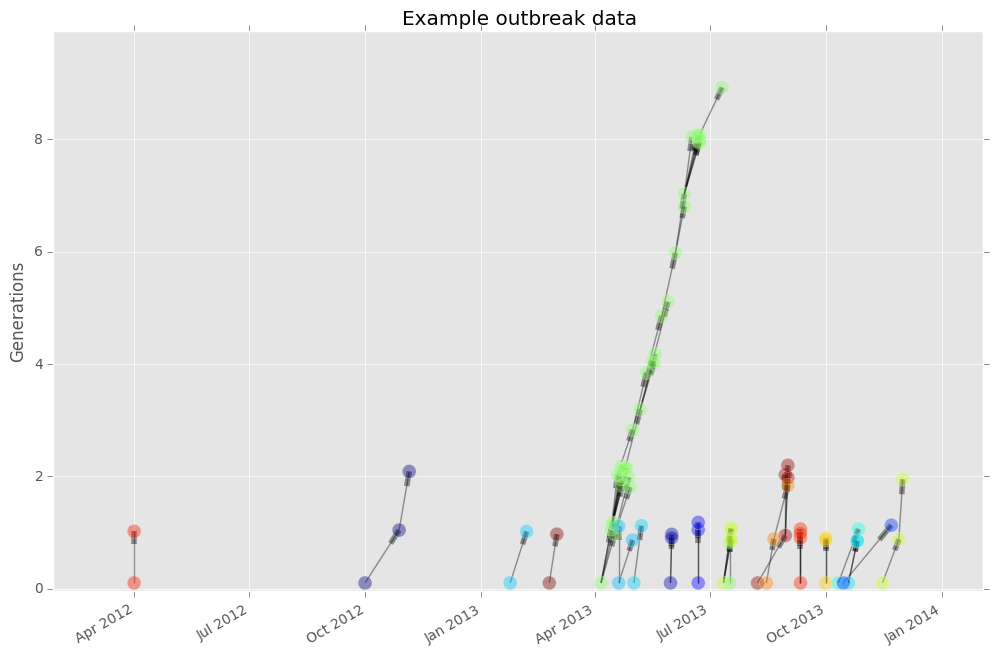
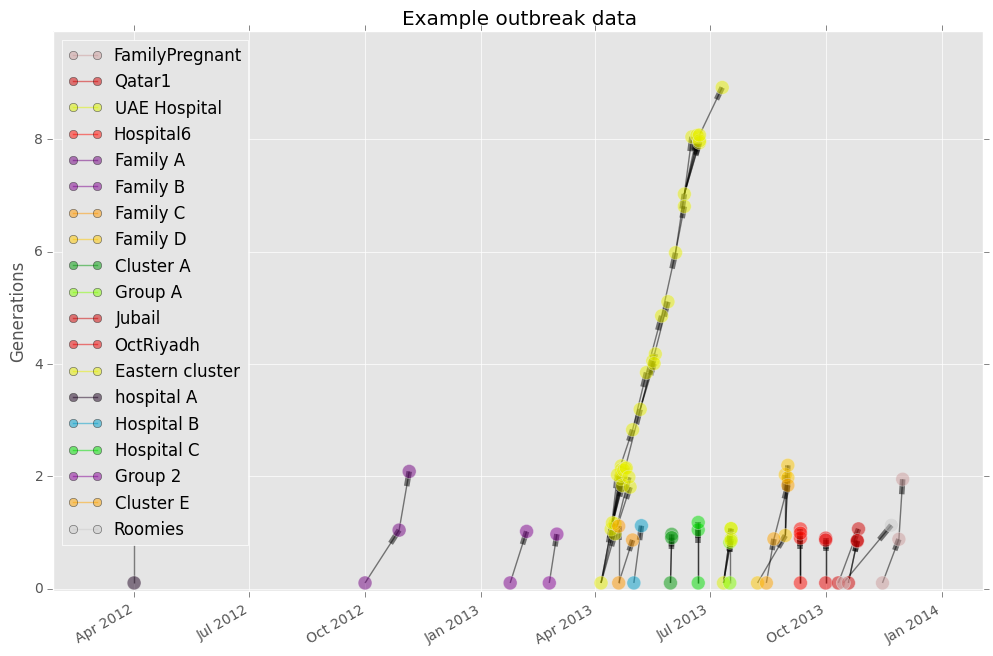
figures automatically generated from examples.py

diff --git a/epipy/examples.py b/epipy/examples.py
@@ -10,6 +10,7 @@ import pandas as pd
 import matplotlib.pyplot as plt
 import numpy as np
 import epipy
+import os
 
 try:
     from mpltools import style, layout
@@ -18,18 +19,36 @@ try:
 except:
     pass
 
+dir = os.path.dirname(__file__)
+
+#################################
+# GENERATE AN EXAMPLE LINE LIST #
+#################################
+
+example_df = epipy.generate_example_data(cluster_size=6, outbreak_len=90, clusters=5,
+                                         gen_time=5, attribute='health')
+
+test_clusters = epipy.cluster_builder(example_df, 'Cluster', 'ID', 'Date', 'Cluster', 5, 1)
+test_G = epipy.build_graph(test_clusters)
+fig, ax = epipy.case_tree_plot(test_G,  node_size=100)
+ax.set_title('Example outbreak data')
+ax.set_ylabel('Generations')
+ax.grid(True)
+fig.savefig(os.path.join(dir, '../figs/test_casetree.png'), bbox_inches='tight')
+
+
 #####################
 # TEST DATA EXAMPLE #
 #####################
 
 # load in example data
 try:
-    test_df = pd.read_pickle('../data/test_cluster.pkl')
+    test_df = pd.read_pickle(os.path.join(dir, '../data/test_cluster.pkl'))
 except:
     from data_generator import generate_example_data
     test_df = generate_example_data(cluster_size=5, outbreak_len=100, clusters=10, generation_time=5)
-    test_df.to_pickle('../data/test_cluster.pkl')
-  
+    test_df.to_pickle(os.path.join(dir, '../data/test_cluster.pkl'))
+
 test_clusters = epipy.cluster_builder(test_df, 'Cluster', 'ID', 'Date', 'Cluster', 5, 1)
 
 # Case tree plot
@@ -38,25 +57,25 @@ fig, ax = epipy.case_tree_plot(test_G,  node_size=100)
 ax.set_title('Example outbreak data')
 ax.set_ylabel('Generations')
 ax.grid(True)
-fig.savefig('../figs/test_casetree.png', bbox_inches='tight')
+#fig.savefig(os.path.join(dir, '../figs/test_casetree.png'), bbox_inches='tight')
 
 # Checkerboard plot
 fig, ax = epipy.checkerboard_plot(test_df, 'ID', 'Cluster', 'Date')
 ax.set_title("Test data")
-fig.savefig('../figs/test_checkerboard.png')
+fig.savefig(os.path.join(dir, '../figs/test_checkerboard.png'), bbox_inches='tight')
 
 
 #########################
 # MERS-CoV DATA EXAMPLE #
 #########################
 
-mers_df = pd.read_csv('../data/mers_line_list.csv')
+mers_df = pd.read_csv(os.path.join(dir, '../data/mers_line_list.csv'))
 
 # Data cleaning
 mers_df['Case #'] = mers_df['Case #'].replace(np.nan, 'single')
 mers_df['onset_date'] = mers_df['Approx onset date'].map(epipy.date_convert)
 mers_df['report_date'] = mers_df['Approx reporting date'].map(epipy.date_convert)
-mers_df['dates'] = mers_df['onset_date'].combine_first(mers_df['report_date']) 
+mers_df['dates'] = mers_df['onset_date'].combine_first(mers_df['report_date'])
 
 # Prepares case clusters for case tree plot
 mers_clusters = epipy.cluster_builder(mers_df, 'Cluster ID', 'Case #',
@@ -64,42 +83,41 @@ mers_clusters = epipy.cluster_builder(mers_df, 'Cluster ID', 'Case #',
 
 # Case tree plot
 mers_G = epipy.build_graph(mers_clusters)
-fig, ax = epipy.case_tree_plot(mers_G,  node_size=100)
+fig, ax = epipy.case_tree_plot(mers_G, node_size=100, loc='upper left')
 ax.set_title('Example outbreak data')
-ax.set_ylabel('Generations')
 ax.grid(True)
-fig.savefig('../figs/mers_casetree.png', bbox_inches='tight')
+fig.savefig(os.path.join(dir, '../figs/mers_casetree.png'), bbox_inches='tight')
 
 # Checkerboard plot
 fig, ax = epipy.checkerboard_plot(mers_df, 'Case #', 'Cluster ID', 'dates')
 ax.set_title("MERS-CoV clusters")
-fig.savefig('../figs/mers_checkerboard.png')
+fig.savefig(os.path.join(dir, '../figs/mers_checkerboard.png'), bbox_inches='tight')
 
 #################
 ### EPICURVES ###
 #################
 
-epi = pd.read_csv("../data/mers_line_list.csv", parse_dates=True)
+epi = pd.read_csv(os.path.join(dir, "../data/mers_line_list.csv"), parse_dates=True)
 
 # Data cleaning again
 epi['onset_date'] = epi['Approx onset date'].map(lambda x: epipy.date_convert(x, '%Y-%m-%d'))
 epi['report_date'] = epi['Approx reporting date'].map(lambda x: epipy.date_convert(x, '%Y-%m-%d'))
-epi['dates'] = epi['onset_date'].combine_first(epi['report_date']) 
+epi['dates'] = epi['onset_date'].combine_first(epi['report_date'])
 
 # Daily epicurve
 plt.figure()
 epipy.epicurve_plot(epi, date_col='dates', freq='day')
 plt.title('Approximate onset or report date');
-plt.savefig('../figs/day_epicurve.png')
+plt.savefig(os.path.join(dir, '../figs/day_epicurve.png'))
 
 # Yearly epicurve
 plt.figure()
 epipy.epicurve_plot(epi, 'dates', freq='y')
 plt.title('Approximate onset or report date')
-plt.savefig('../figs/year_epicurve.png');
+plt.savefig(os.path.join(dir, '../figs/year_epicurve.png'))
 
 # Monthly epicurve
 plt.figure()
 epipy.epicurve_plot(epi, 'dates', freq='month')
 plt.title('Approximate onset or report date')
-plt.savefig('../figs/month_epicurve.png')
+plt.savefig(os.path.join(dir, '../figs/month_epicurve.png'))

diff --git a/epipy/case_tree.py b/epipy/case_tree.py
@@ -49,38 +49,39 @@ def build_graph(df, case_id='case_id', color='color', index='index_node',
     return G
 
 
-def case_tree_plot(G, node_size=100):
+def case_tree_plot(G, node_size=100, loc='best', legend=True):
     """
     Plot casetree
     G = networkx object
     node_size = on (display node) or off (display edge only). Default is on.
+    loc = legend location. See matplotlib args.
     """
     fig, ax = plt.subplots(figsize=(12, 8))
     ax.xaxis_date()
     ax.set_aspect('auto')
     axprop =  ax.axis()
+    ax.set_ylabel('Generations')
+    fig.autofmt_xdate()
 
     coords = _layout(G)
     plt.ylim(ymin=-.05, ymax=max([val[1] for val in coords.itervalues()])+1)
 
 
     colormap, color_floats = _colors(G, 'color')
-    print colormap
 
-    x_val = G.nodes()[0]
-    lines = []
+    if legend == True:
+        x_val = G.nodes()[0]
+        lines = []
 
-    for key, value in colormap.iteritems():
-        plt.scatter(G.node[x_val]['pltdate'], value[0], color=value, alpha=0)
-        line = plt.Line2D(range(1), range(1), color=value, marker='o', markersize=10, alpha=.6, label=key)
-        lines.append(line)
+        for key, value in colormap.iteritems():
+            plt.scatter(G.node[x_val]['pltdate'], value[0], color=value, alpha=0)
+            line = plt.Line2D(range(1), range(1), color=value, marker='o', markersize=6, alpha=.5, label=key)
+            lines.append(line)
 
-    ax.legend(lines, [k for k in colormap.iterkeys()])
+        ax.legend(lines, [k for k in colormap.iterkeys()], loc=loc)
 
     nx.draw_networkx(G, ax=ax, with_labels=False, pos=coords, node_color=color_floats,
-                     node_size=node_size, alpha=.6)
-
-    fig.autofmt_xdate()
+                     node_size=node_size, alpha=.5)
 
     return fig, ax
 
@@ -98,7 +99,7 @@ def _colors(G, color):
         categories.append(G.node[node][color])
 
     # create color map of attributes and colors
-    colors = cm.Accent(np.linspace(0, 1, len(categories)))
+    colors = cm.spectral(np.linspace(0, 1, len(categories)))
     colordict = dict(zip(categories, colors))
 
     color_floats = []
@@ -156,11 +157,3 @@ def _layout(G):
         positions.append([xcord, generation])
 
     return dict(zip(G, np.array(positions)))
-
-import epipy
-import pandas as pd
-test_df = pd.read_pickle('../data/test_cluster.pkl')
-test_clusters = epipy.cluster_builder(test_df, 'Cluster', 'ID', 'Date', 'Cluster', 5, 1)
-test_G = epipy.build_graph(test_clusters)
-fig, ax = case_tree_plot(test_G, node_size=100)
-fig.show()

diff --git a/epipy/data_generator.py b/epipy/data_generator.py
@@ -8,25 +8,48 @@ import string
 def _date_choice(ix_date, generation_time):
     date_rng = pd.date_range(ix_date, periods=generation_time*2, freq='D')
     date = np.random.choice(date_rng, 1)
-    
+
     return date
 
-def generate_example_data(cluster_size, outbreak_len, clusters, generation_time):
-    line_list = []    
+def generate_example_data(cluster_size, outbreak_len, clusters, gen_time, attribute='sex'):
+    """
+    Generates example outbreak data
+
+    PARAMETERS
+    ------------------------------
+    cluster_size = mean number of cases in cluster. Build in sd of 2
+    outbreak_len = duration of outbreak in days
+    clusters = number of clusters to begenerated
+    gen_time = number of days between each generation in a cluster
+    attribute = case attribute. Options are 'sex' (returns M, F) and
+                'health' (returns asymptomatic, alive, critical, dead)
+
+    RETURNS
+    ------------------------------
+    pandas dataframe with columns ['ID', 'Date', 'Cluster', 'Sex']
+
+    """
+    line_list = []
     used = []
     for i in range(clusters):
-        cluster_name = np.random.choice([i for i in string.letters if i not in used])[0]
+        cluster_letter = np.random.choice([i for i in string.letters if i not in used])[0]
+        cluster_name = 'Cluster' + cluster_letter.upper()
         used.append(cluster_name)
-        
+
         ix_rng = pd.date_range('1/1/2014', periods=outbreak_len, freq='D')
         ix_date = np.random.choice(ix_rng, size=1)
-        
+
         rng = int(np.random.normal(cluster_size, 2, 1))
         for n in range(rng):
-            date = _date_choice(ix_date[0], generation_time*2)[0]            
-            sex =  np.random.choice(['M', 'F'], size=1)[0]
-            line_list.append((len(line_list), date, cluster_name, sex))
+            date = _date_choice(ix_date[0], gen_time*2)[0]
 
-    return pd.DataFrame(line_list, columns=['ID', 'Date', 'Cluster', 'Sex'])
+            if attribute.lower() == 'sex':
+                attr =  np.random.choice(['M', 'F'], size=1)[0]
+            elif attribute.lower() == 'health':
+                attr = np.random.choice(['asymptomatic', 'alive', 'critical', 'dead'], size=1)[0]
+
+            line_list.append((len(line_list), date, cluster_name, attr))
+
+    return pd.DataFrame(line_list, columns=['ID', 'Date', 'Cluster', attribute])
 
 

diff --git a/epipy/checkerboard.py b/epipy/checkerboard.py
@@ -24,51 +24,49 @@ def checkerboard_plot(df, case_id, cluster_id, date_col):
     returns matplotlib figure and axis objects
     '''
     clusters = epipy.group_clusters(df, cluster_id, date_col)
-    
+
     fig, ax = plt.subplots(figsize=(12, 10))
     ax.xaxis_date()
     ax.set_aspect('auto')
     axprop = ax.axis()
-    
+    fig.autofmt_xdate()
+
     grpnames = [key for key, group in clusters if len(group) > 1]
     plt.ylim(1, len(grpnames))
     plt.yticks(np.arange(len(grpnames)), grpnames)
-    
+
     xtog = timedelta(((10*axprop[1]-axprop[0])/axprop[1]), 0, 0)
     counter = 0
     cols = cycle([color for i, color in enumerate(plt.rcParams['axes.color_cycle'])])
-    
+
     for key, group in clusters:
         if len(group) > 1:
             color = next(cols)
             casenums = cycle([int(num) for num in group.index])
-            
+
             positions = []
             for casedate in group[date_col].order():
                 x1 = casedate
                 x2 = casedate + xtog
                 positions.append(x2)
-                
+
                 y1 = np.array([counter, counter])
                 y2 = y1 + 1
-                
+
                 plt.fill_between([x1, x2], y1, y2, color=color, alpha=.3)
                 ypos = y1[0] + .5
-                
+
                 try:
                     if x1 <= positions[-2]:
                         ypos = ypos + np.random.uniform(-.4, .4, 1)
                 except:
                     pass
-                    
+
                 textspot = x1 + timedelta((x2 - x1).days/2.0, 0, 0)
                 plt.text(textspot, ypos, next(casenums),
-			    horizontalalignment='center', 
-			    verticalalignment='center', fontsize=9)    
-                
+			    horizontalalignment='center',
+			    verticalalignment='center', fontsize=9)
+
             counter += 1
-            
-    fig.autofmt_xdate()
-    fig.tight_layout()
-    
+
     return fig, ax

diff --git a/epipy/basics.py b/epipy/basics.py
@@ -20,7 +20,7 @@ def date_convert(date, str_format='%Y-%m-%d'):
         y = datetime.strptime(date, str_format)
     except:
         y = np.nan
-        
+
     return y
 
 
@@ -54,12 +54,12 @@ def cluster_builder(df, cluster_id, case_id, date_col, color_col, gen_mean, gen_
     gen_mean = generation time mean
     gen_sd = generation time standard deviation
 
-    returns pandas groupby dataframe 
+    returns pandas groupby dataframe
     '''
     clusters = group_clusters(df, cluster_id, date_col)
-    
+
     gen_max = timedelta((gen_mean + gen_sd), 0)
-    
+
     cluster_obj = []
     for key, group in clusters:
         if len(group) > 1:
@@ -69,7 +69,7 @@ def cluster_builder(df, cluster_id, case_id, date_col, color_col, gen_mean, gen_
     network = []
     for cluster in cluster_obj:
         #reverse dates, last case first
-        cluster = np.array(cluster[::-1]) 
+        cluster = np.array(cluster[::-1])
         ids = cluster[:, 0]
         dates = cluster[:, 1]
         colors = cluster[:, 2]
@@ -82,19 +82,19 @@ def cluster_builder(df, cluster_id, case_id, date_col, color_col, gen_mean, gen_
 
             if start_node == idx and idx != index_node:
                 start_node = ids[i+1]
-            
+
             source_nodes.append(start_node)
 
         for i in range(len(ids)):
             result = (ids[i], colors[i], index_node, source_nodes[i], dates[i])
             network.append(result)
-            
+
     df_out = pd.DataFrame(network, columns=['case_id', 'color', 'index_node', 'source_node', 'time'])
     df_out.time = pd.to_datetime(df_out.time)
-    
+
     df_out[['case_id', 'source_node', 'index_node']] = df_out[['case_id', 'source_node', 'index_node']].astype('int')
     df_out['pltdate'] = [mpl.dates.date2num(i) for i in df_out.time]
-    
     df_out.index = df_out.case_id
-    
+    df_out = df_out.sort('pltdate')
+
     return df_out
